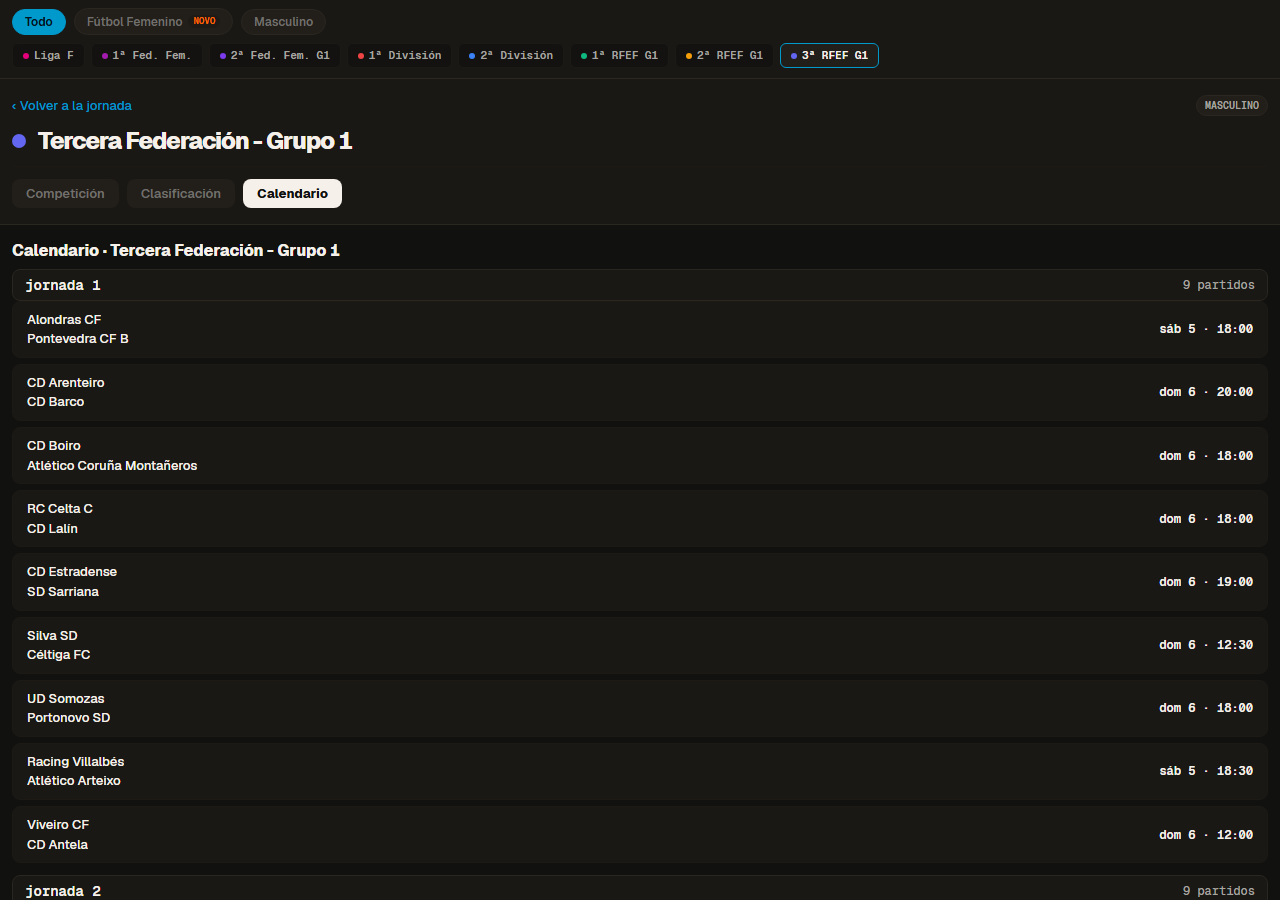
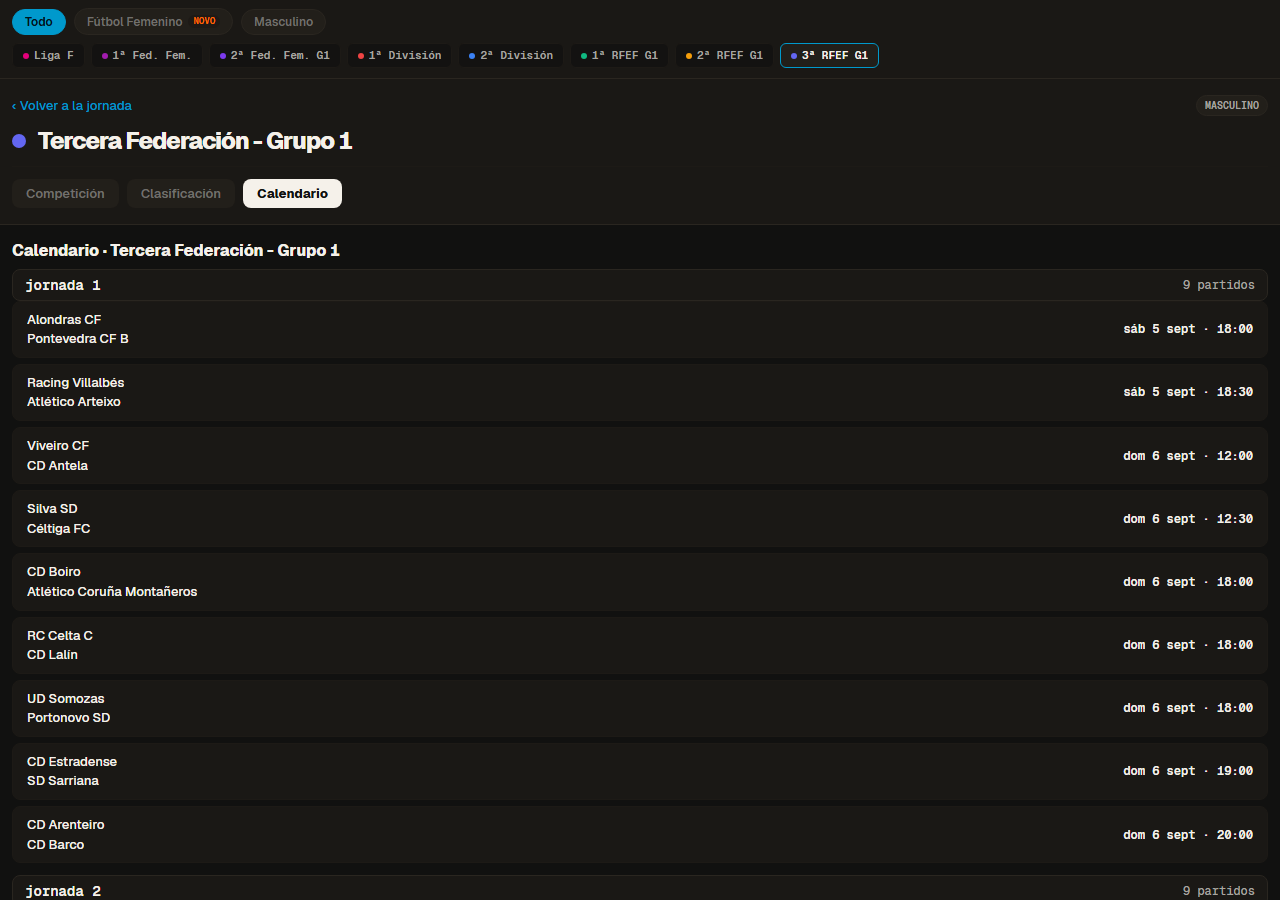
docs(sdd): SPEC-089 GREEN del verificador, hecho
Re-verificación sobre 72c893b con la spec enmendada (b0aeebb): F-V-1 y
F-V-2 resueltos; gates verdes; 446 comprobaciones de navegador sin fallos.

diff --git a/docs/epicas/EPIC-MANT-mantenimiento/SPEC-089-las-paginas-de-competicion-no-publican-calendarios-ni-clasificaciones-inventados.ledger.md b/docs/epicas/EPIC-MANT-mantenimiento/SPEC-089-las-paginas-de-competicion-no-publican-calendarios-ni-clasificaciones-inventados.ledger.md
@@ -15,32 +15,32 @@ epica: EPIC-MANT
 <!-- Un CA está ✅ solo cuando Implementado + Test + Verif. aplicables están en verde. Una salvedad se marca ⚠, nunca ✅. -->
 | CA | Implementado (fichero) | Test (fichero/caso) | Verif. | Estado |
 |---|---|---|---|---|
-| CA-1 | `src/lib/competition-sources.ts` (`COMPETITION_SOURCES`), `src/calendar/bundled.ts` (`BUNDLED_CALENDARS`) | `src/lib/competition-data.test.ts` «SPEC-089 CA-1»: mapa exacto; cada `local` en el bundle | Test verde (mapa exacto, 8 claves = `ALLOWED_COMPETITIONS`, 5 `local` en bundle). Navegador: el stub de explorer solo recibe `calendar liga-f` y `standings liga-f/primera-division/segunda-division` | ✅ |
-| CA-2 | `src/lib/competition-data.ts` (`loadCompetitionCalendar`, `localCalendar` con `homeId/awayId` del fichero), `src/components/competition/CalendarView.tsx` (escudo/realce por `homeId ?? home`, nombre de `teams[].name`), `src/app/competition-page.tsx` | `src/lib/competition-data.test.ts` «SPEC-089 CA-2»: tercera 306 partidos por nombre; las 5 `local` sin explorer; fichero inválido → unavailable; páginas calendario y portada. «SPEC-089 CA-2 local calendar keeps Galician shields» (F-V-1): 1ª Div celta/deportivo, 1ª RFEF racing-ferrol/lugo/pontevedra, 2ª RFEF ourense-cf con escudo, nombre y `matchCardGalician`; el loader lleva los ids | Tests verdes (306 de tercera por nombre, 5 `local` sin explorer, fichero inválido → unavailable). Navegador: tercera 306, 1ª Div 380, 2ª Div 462, 1ª RFEF 380, 2ª RFEF 306 partidos sin llamada a explorer; «Alondras CF». Pero F-V-1: sin escudo ni realce galego | ⚠ |
-| CA-3 | `src/components/competition/CalendarView.tsx` (`formatKickoff` = `formatDay` + `formatMonth` + `formatTime`, badge solo si `timeConfirmed` es booleano), `src/i18n/format.ts` (`formatMonth`, enmienda 2026-11-16) | `src/components/competition/CalendarView.test.ts` «SPEC-089 CA-3»: 18:00 con `TZ=UTC`; sin badge en local; liga-f con badge; «date with month»: los 3 casos de la spec en gl y es con `TZ=UTC` («sáb 5 set · 18:00», «sáb 5 sept · 18:00», «dom 15 nov · 18:00», «dom 22 nov · 00:30»). `src/i18n/format.test.ts` «SPEC-089 CA-3 formatMonth» | Tests verdes (18:00 con `TZ=UTC`, sin badge en local, badge en liga-f). Navegador: tercera j1 «sáb 5 · 18:00» (5-sep 16:00Z); local sin badges; liga-f con «Horario confirmado/por confirmar» | ✅ |
-| CA-4 | `src/lib/competition-data.ts`, `src/app/competition-page.tsx` (`Section`), `src/i18n/{gl,es}.ts` `competitions.calendarNotOffered` | `src/lib/competition-data.test.ts` «SPEC-089 CA-4»: fem. 1ª/2ª en gl y es, portada y calendario; textos decididos ≠ `xornada.unavailable` | Tests verdes gl/es portada+calendario. Navegador: 200 y texto decidido en `/competicion` y `/calendario` de fem. 1ª/2ª, gl y es, móvil y escritorio, sin `calendar-view`; el stub no recibe llamadas de ellas | ✅ |
-| CA-5 | Ídem + `competitions.standingsNotOffered` | `src/lib/competition-data.test.ts` «SPEC-089 CA-5»: las `none` (5 tras CA-7) en gl y es, portada y clasificación | Tests verdes. Navegador: texto decidido en portada y clasificación de las 5 `none`, gl y es; el stub no recibe `standings` de ellas. La lista de 5 depende de CA-7 | ✅ |
-| CA-6 | `src/app/competition-page.tsx` (explorer inyectable, `clientCompetitionExplorer` por defecto) | `src/lib/competition-data.test.ts` «SPEC-089 CA-6»: liga-f y clasificaciones explorer; fallo y vacío → unavailable; 8×3 páginas responden; suites existentes de CalendarView/StandingsTable/CompetitionHeader/CompetitionNav verdes; «keeps Galician shields»: liga-f vía explorer conserva `/escudos/depor-abanca.svg`, «Deportivo ABANCA» y 1 `matchCardGalician` | Suite 3073 passed / 3 skipped; 96 páginas (8×3×gl/es×2 viewports) HTTP 200 sin scroll horizontal; stub caído → «Os resultados non están dispoñibles agora mesmo.» en liga-f y 1ª Div. Regresión visible fuera de la lista del CA: F-V-1 | ⚠ |
-| CA-7 | Decisión aplicada en `src/lib/competition-sources.ts` (`primera-rfef-g1` → standings `none`), conforme al tercer caso del CA enmendado (comparación no hecha → `none`); sin cambio de código en la iteración 3 | Evidencia abajo («CA-7 evidencia»); el test de CA-1 refleja la decisión | Evidencia registrada (HTTP 503, 0 filas). La regla del CA no cubre «sin tabla»: la decisión `none` es conservadora pero no tiene la aceptación del titular (F-V-2) | ⚠ |
-| CA-8 | `src/components/competition/CalendarView.tsx` (`compareMatches`: kickoff ascendente, desempate `externalId` con `<`, ilegible al final; vale para `local`, cuyo `externalId` es el `matchId`, y para explorer) | `src/components/competition/CalendarView.test.ts` «SPEC-089 CA-8»: 18:00 b, 16:00 c, 16:00 a → a, c, b; dos permutaciones → mismo DOM (×2); xornadas ascendentes, kickoff ilegible al final, `B` antes que `a` (orden de código) | | |
+| CA-1 | `src/lib/competition-sources.ts` (`COMPETITION_SOURCES`), `src/calendar/bundled.ts` (`BUNDLED_CALENDARS`) | `src/lib/competition-data.test.ts` «SPEC-089 CA-1»: mapa exacto; cada `local` en el bundle | Test verde (mapa exacto, 8 claves = `ALLOWED_COMPETITIONS`, 5 `local` en bundle). Navegador (2026-11-16, 72c893b): el stub de explorer solo recibe `calendar liga-f` y `standings liga-f/primera-division/segunda-division` | ✅ |
+| CA-2 | `src/lib/competition-data.ts` (`loadCompetitionCalendar`, `localCalendar` con `homeId/awayId` del fichero), `src/components/competition/CalendarView.tsx` (escudo/realce por `homeId ?? home`, nombre de `teams[].name`), `src/app/competition-page.tsx` | `src/lib/competition-data.test.ts` «SPEC-089 CA-2»: tercera 306 partidos por nombre; las 5 `local` sin explorer; fichero inválido → unavailable; páginas calendario y portada. «SPEC-089 CA-2 local calendar keeps Galician shields» (F-V-1): 1ª Div celta/deportivo, 1ª RFEF racing-ferrol/lugo/pontevedra, 2ª RFEF ourense-cf con escudo, nombre y `matchCardGalician`; el loader lleva los ids | Tests verdes. Navegador: 1ª Div 380, 2ª Div 462, 1ª RFEF 380, 2ª RFEF 306, tercera 306 tarjetas = partidos del fichero, gl/es, móvil/escritorio, portada y calendario; todos con `teams[].name`; sin llamada a explorer. F-V-1 resuelto: escudos/realce por id del fichero, 0 discrepancias por tarjeta (1ª Div 76 escudos/74 realzadas; 1ª RFEF 114/108; 2ª RFEF 34/34) | ✅ |
+| CA-3 | `src/components/competition/CalendarView.tsx` (`formatKickoff` = `formatDay` + `formatMonth` + `formatTime`, badge solo si `timeConfirmed` es booleano), `src/i18n/format.ts` (`formatMonth`, enmienda 2026-11-16) | `src/components/competition/CalendarView.test.ts` «SPEC-089 CA-3»: 18:00 con `TZ=UTC`; sin badge en local; liga-f con badge; «date with month»: los 3 casos de la spec en gl y es con `TZ=UTC` («sáb 5 set · 18:00», «sáb 5 sept · 18:00», «dom 15 nov · 18:00», «dom 22 nov · 00:30»). `src/i18n/format.test.ts` «SPEC-089 CA-3 formatMonth» | Tests verdes (3 casos de la spec gl/es con `TZ=UTC`; `formatMonth`). Navegador con `next start` en `TZ=UTC`: las 1.834 tarjetas `local` × gl/es casan con «<día> <mes ICU> · <HH:MM>» calculado aparte (CEST/CET a mano), 0 fallos; tercera j1 «sáb 5 set · 18:00» / «sáb 5 sept · 18:00»; local sin badges; liga-f con «Horario confirmado/por confirmar» | ✅ |
+| CA-4 | `src/lib/competition-data.ts`, `src/app/competition-page.tsx` (`Section`), `src/i18n/{gl,es}.ts` `competitions.calendarNotOffered` | `src/lib/competition-data.test.ts` «SPEC-089 CA-4»: fem. 1ª/2ª en gl y es, portada y calendario; textos decididos ≠ `xornada.unavailable` | Tests verdes gl/es portada+calendario. Navegador: 200 y texto decidido en `/competicion` y `/calendario` de fem. 1ª/2ª, gl y es, móvil y escritorio, sin `calendar-view` ni `xornada.unavailable`; el stub no recibe llamadas de ellas | ✅ |
+| CA-5 | Ídem + `competitions.standingsNotOffered` | `src/lib/competition-data.test.ts` «SPEC-089 CA-5»: las `none` (5 tras CA-7) en gl y es, portada y clasificación | Tests verdes. Navegador: texto decidido en portada y clasificación de las 5 `none` (lista de CA-7), gl y es, ambos viewports; el stub no recibe `standings` de ellas | ✅ |
+| CA-6 | `src/app/competition-page.tsx` (explorer inyectable, `clientCompetitionExplorer` por defecto) | `src/lib/competition-data.test.ts` «SPEC-089 CA-6»: liga-f y clasificaciones explorer; fallo y vacío → unavailable; 8×3 páginas responden; suites existentes de CalendarView/StandingsTable/CompetitionHeader/CompetitionNav verdes; «keeps Galician shields»: liga-f vía explorer conserva `/escudos/depor-abanca.svg`, «Deportivo ABANCA» y 1 `matchCardGalician` | Suite 179 ficheros, 3083 passed / 3 skipped. 96 páginas (8×3×gl/es×2 viewports) HTTP 200 sin scroll horizontal; liga-f: escudo y realce de Deportivo ABANCA; stub caído (503) → `xornada.unavailable` en `/calendario/liga-f`, `/clasificacion/liga-f`, `/clasificacion/primera-division`, gl y es. `CompetitionNav` sin diff | ✅ |
+| CA-7 | Decisión aplicada en `src/lib/competition-sources.ts` (`primera-rfef-g1` → standings `none`), conforme al tercer caso del CA enmendado (comparación no hecha → `none`); sin cambio de código en la iteración 3 | Evidencia abajo («CA-7 evidencia»); el test de CA-1 refleja la decisión | Evidencia del ledger completa para el tercer caso enmendado (comando y fecha, HTTP 503, 0 filas, no emparejados no evaluable, decisión `none`); `COMPETITION_SOURCES` y el test de CA-1 la reflejan. F-V-2 resuelto por la enmienda b0aeebb | ✅ |
+| CA-8 | `src/components/competition/CalendarView.tsx` (`compareMatches`: kickoff ascendente, desempate `externalId` con `<`, ilegible al final; vale para `local`, cuyo `externalId` es el `matchId`, y para explorer) | `src/components/competition/CalendarView.test.ts` «SPEC-089 CA-8»: 18:00 b, 16:00 c, 16:00 a → a, c, b; dos permutaciones → mismo DOM (×2); xornadas ascendentes, kickoff ilegible al final, `B` antes que `a` (orden de código) | Tests verdes (caso b/c/a → a,c,b; permutaciones → mismo DOM; ilegible al final; orden de código). Navegador: en las 5 `local` el orden del DOM = orden esperado (xornada, `Date.parse`, `matchId` con `<`) y el del fichero no lo es; liga-f con stub desordenado (18:00 b, 16:00 c, 16:00 a + j9) → lf-z, lf-a, lf-c, lf-b | ✅ |
 
 ## Veredicto del verificador
 <!-- GREEN/RED + fecha + resumen. Lo escribe SOLO sdd-verificador. -->
-**RED — 2026-11-16.** Gates verdes (worktree LF detached en 9c90384): `npm run typecheck` exit 0; `npm run lint` «Checked 500 files… No fixes applied.»; `npm test` 179 ficheros, 3073 passed / 3 skipped. `npm run build` (árbol principal, `EXPLORER_BASE_URL` a stub local 127.0.0.1:4599) «Compiled successfully». Navegador: `next start` + Playwright chromium 390×844 y 1280×900, gl y es, 96 páginas → todas 200.
+**GREEN — 2026-11-16 (re-verificación sobre 72c893b, spec enmendada en b0aeebb).** Gates (worktree LF detached en 72c893b): `npm run typecheck` exit 0; `npm run lint` «Checked 500 files in 1224ms. No fixes applied.»; `npm test` «Test Files 179 passed (179)», «Tests 3083 passed | 3 skipped (3086)». `npm run build` (árbol principal, `EXPLORER_BASE_URL` a stub local 127.0.0.1:4599, token ficticio) exit 0. Navegador: `next start` con `TZ=UTC` + Playwright chromium 390×844 y 1280×900, gl y es: 446 comprobaciones, 0 fallos; peticiones al stub solo `calendar liga-f`, `standings liga-f/primera-division/segunda-division`.
 
-Findings:
-- **F-V-1 (regresión visible, CA-2/CA-6)**: en los calendarios `local` ningún equipo galego lleva escudo ni realce. `localCalendar` (`src/lib/competition-data.ts`) pasa `home/away` = `teams[].name` («RC Celta») y `CalendarView` busca `getGalicianClub(m.home)` por id. Medido: render de `loadCompetitionCalendar` → `primera-division shields: 0 galicianCards: 0`, `primera-rfef-g1 0/0`, `segunda-rfef-g1 0/0`; Playwright `img`=0 y `matchCardGalician`=0 en las 5 `local`, frente a 1/1 en liga-f. Los ids del fichero (`celta`, `deportivo`, `racing-ferrol`, `lugo`, `pontevedra`, `ourense-cf`) coinciden con las claves de `GALICIAN_CLUBS`: el dato para conservar escudo y realce está en el fichero. En main explorer daba slugs canónicos (`TEAM_SHORT_SLUGS`, p. ej. `celta-de-vigo→celta`), así que al menos Celta, Lugo y Pontevedra salían con escudo y realce. El realce galego es el núcleo del producto; aplazarlo a EPIC-MEJORA (F-SPEC-089-1) no lo ha aceptado el titular. Acción: pintar escudo y realce por el id del fichero, conservando el nombre de `teams[].name`, con test (p. ej. 1ª Div: Celta y Deportivo con escudo).
-- **F-V-2 (CA-7, gate humano)**: la comparación del CA no se pudo hacer (503, 0 filas) y la regla solo define `explorer` (la tabla es el G1) o `none` (mezcla grupos). La decisión `none` está razonada y es reversible, pero es una desviación de la spec que necesita aceptación explícita del titular (o enmienda de CA-7) antes de cerrar.
+- F-V-1 (RED anterior): resuelto. Cada tarjeta `local` lleva exactamente los escudos y el realce de sus ids en `GALICIAN_CLUBS` (0 discrepancias en las 5 `local`); liga-f conserva Deportivo ABANCA.
+- F-V-2 (RED anterior): resuelto por la enmienda de CA-7 (tercer caso); la evidencia y el mapa cumplen ese caso.
 
-Observaciones (no bloquean; decide el titular): (a) F-SPEC-089-2: sin mes, la «xornada 1» de 1ª Div muestra «sáb 15», «mér 19», «xov 27», «luns 17»…, ambiguo en una temporada; lo impone CA-3 (`formatDay`), no la implementación. (b) Dentro de cada xornada los partidos `local` siguen el orden del fichero, no el cronológico.
+Observaciones (no bloquean): (a) F-SPEC-089-1 sigue abierto: galegos fuera de `GALICIAN_CLUBS` (tercera entera, filiales, Compostela…) sin escudo ni realce; igual que en main, fuera de los CA. (b) El `it` de CA-5 se titula «lists the four none» y afirma cinco: solo el título.
 
 ## Evidencia visual
 <!-- Tabla CA → captura en _qa/SPEC-089/. Informe HTML opcional: _qa/SPEC-089/informe.html -->
 | CA | Capturas (`_qa/SPEC-089/`, prefijo `movil-`/`escritorio-`; `-es-` = castellano) |
 |---|---|
-| CA-2, CA-3, F-V-1 | `*-calendario-tercera-rfef-g1.png`, `*-calendario-primera-division.png` (RC Celta / RC Deportivo sin escudo ni realce) |
+| CA-2, CA-3 | `*-calendario-tercera-rfef-g1.png`, `*-calendario-primera-division.png` (capturas reescritas en la re-verificación) |
 | CA-4, CA-5 | `*-competicion-primera-federacion-fem.png`, `*-clasificacion-tercera-rfef-g1.png` |
-| CA-3, CA-6 | `*-competicion-liga-f.png` (stub: escudo y realce de Deportivo ABANCA, badges), `*-clasificacion-primera-division.png` (tabla del stub) |
+| CA-3, CA-6 | `*-competicion-liga-f.png` (stub: escudo y realce de Deportivo ABANCA, badges), `*-clasificacion-primera-division.png` (tabla del stub), `escritorio-explorer-caido-calendario-liga-f.png` (stub caído → unavailable) |
+| CA-2, CA-3, CA-8, F-V-1 (re-verificación) | `*-calendario-primera-division.png` (RC Deportivo/RC Celta con escudo y realce, «sáb 15 ago · 19:30»), `*-calendario-primera-rfef-g1.png`, `*-calendario-tercera-rfef-g1.png` («sáb 5 set · 18:00» / «sáb 5 sept · 18:00»), `*-calendario-liga-f.png` (orden j9, j10 16:00 a, 16:00 c, 18:00 b) |
 
 ## Salvedades / follow-ups
 <!-- IDs F-SPEC-089-1, F-SPEC-089-2… con destino (spec futura o EPIC-MEJORA). -->

diff --git a/docs/epicas/EPIC-MANT-mantenimiento/SPEC-089-las-paginas-de-competicion-no-publican-calendarios-ni-clasificaciones-inventados.md b/docs/epicas/EPIC-MANT-mantenimiento/SPEC-089-las-paginas-de-competicion-no-publican-calendarios-ni-clasificaciones-inventados.md
@@ -2,7 +2,7 @@
 id: SPEC-089
 tipo: spec
 epica: EPIC-MANT
-estado: en-revision
+estado: hecho
 aprobada-por: Alberto Fojo
 historial:
   - {estado: borrador, fecha: 2026-11-16, por: sdd-arquitecto}
@@ -13,6 +13,7 @@ historial:
   - {estado: en-revision, fecha: 2026-11-16, por: sdd-implementador}
   - {estado: en-progreso, fecha: 2026-11-16, por: sdd-implementador}
   - {estado: en-revision, fecha: 2026-11-16, por: sdd-implementador}
+  - {estado: hecho, fecha: 2026-11-16, por: sdd-verificador}
 ---
 # SPEC-089 — Las páginas de competición no publican calendarios ni clasificaciones inventados
 
